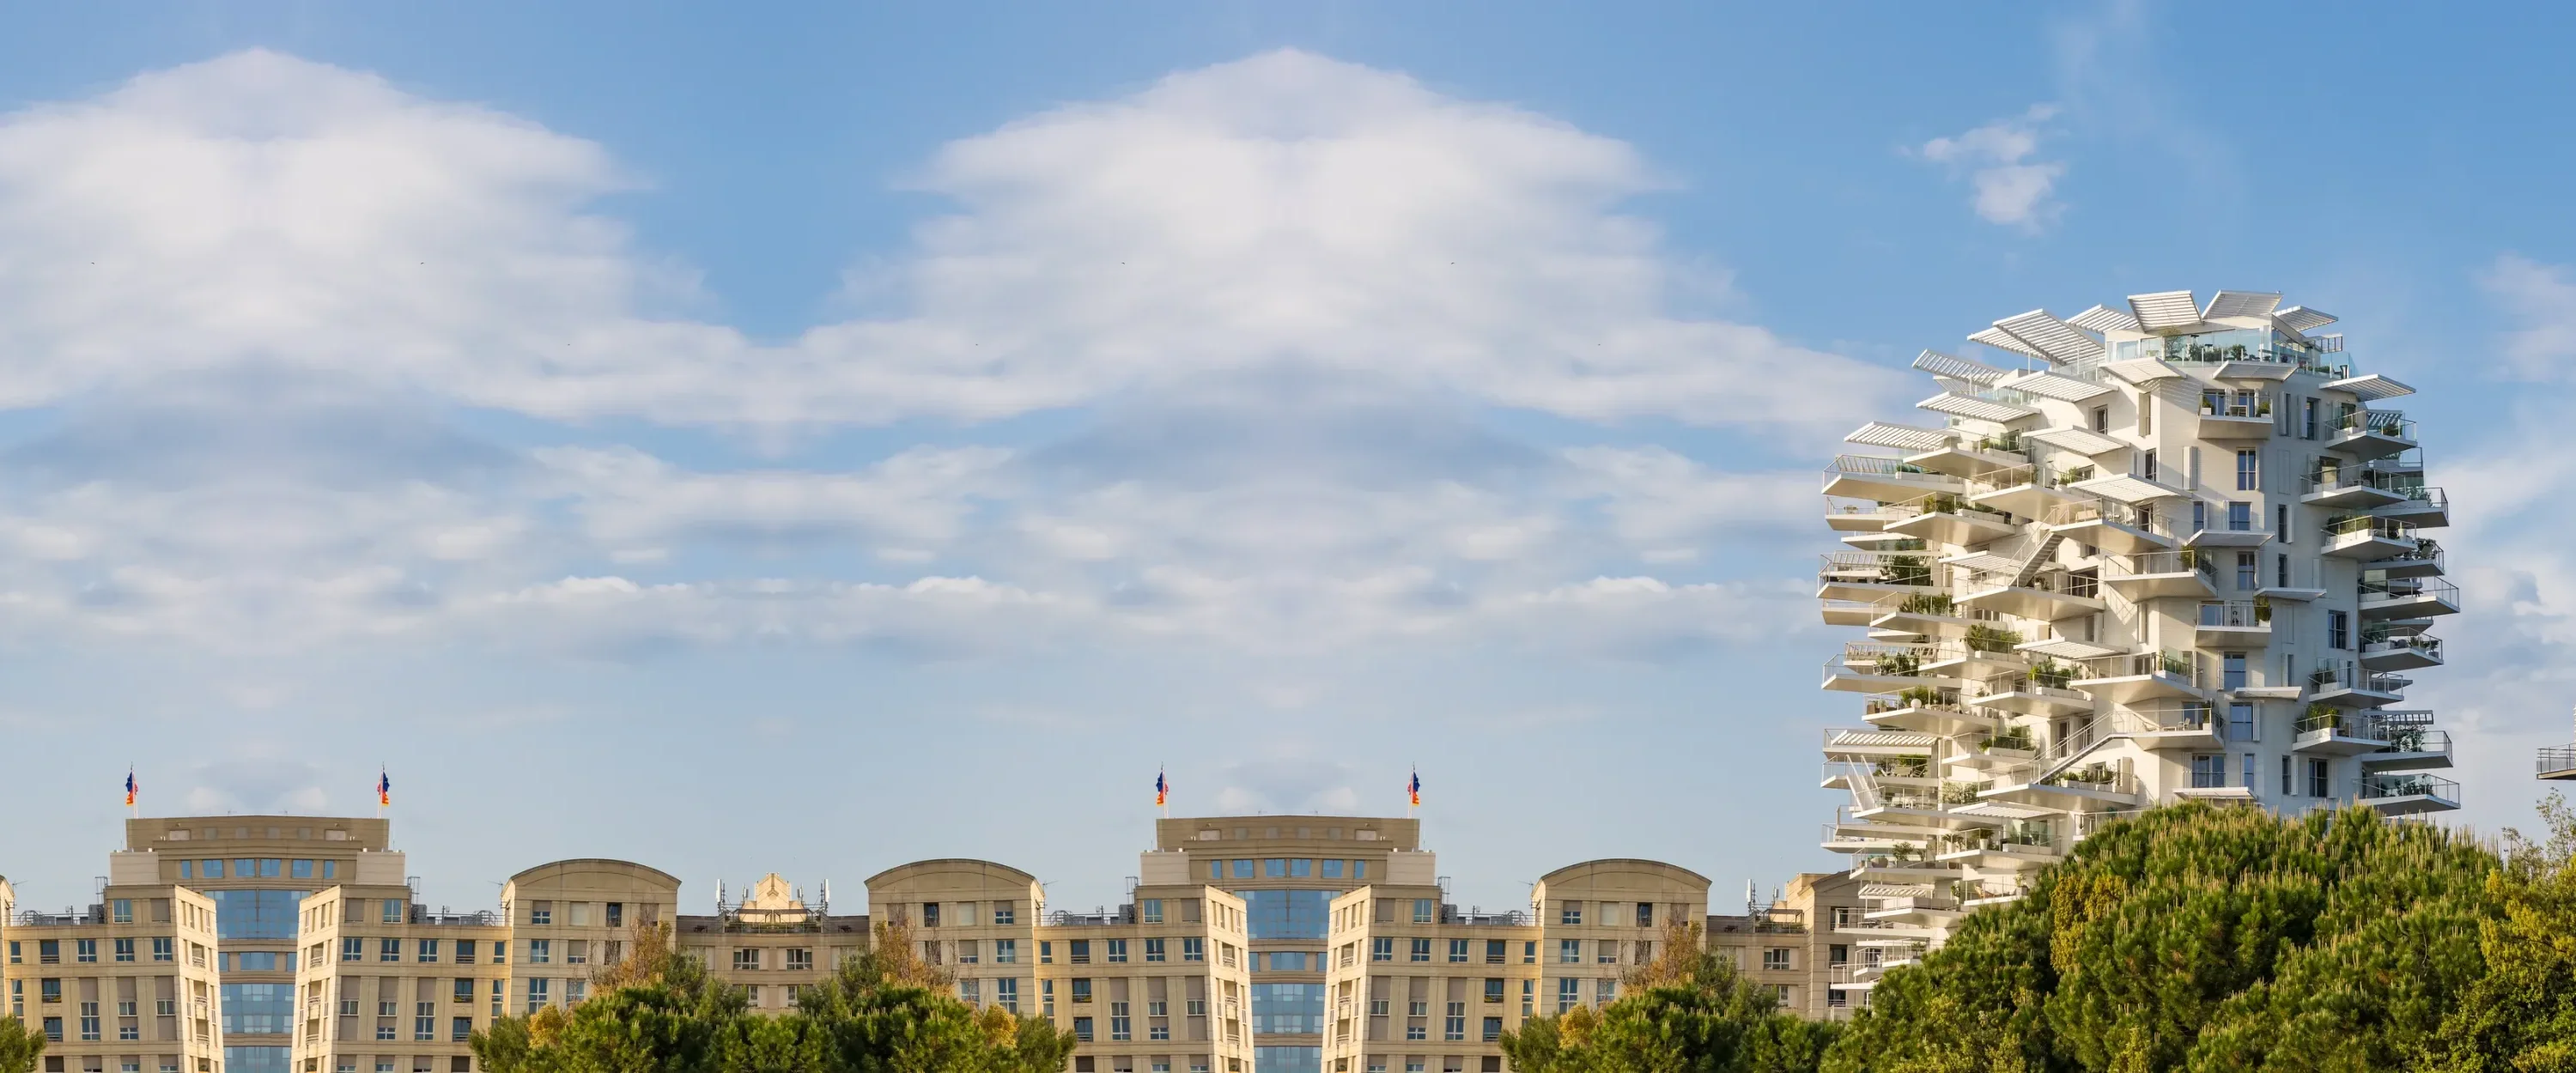
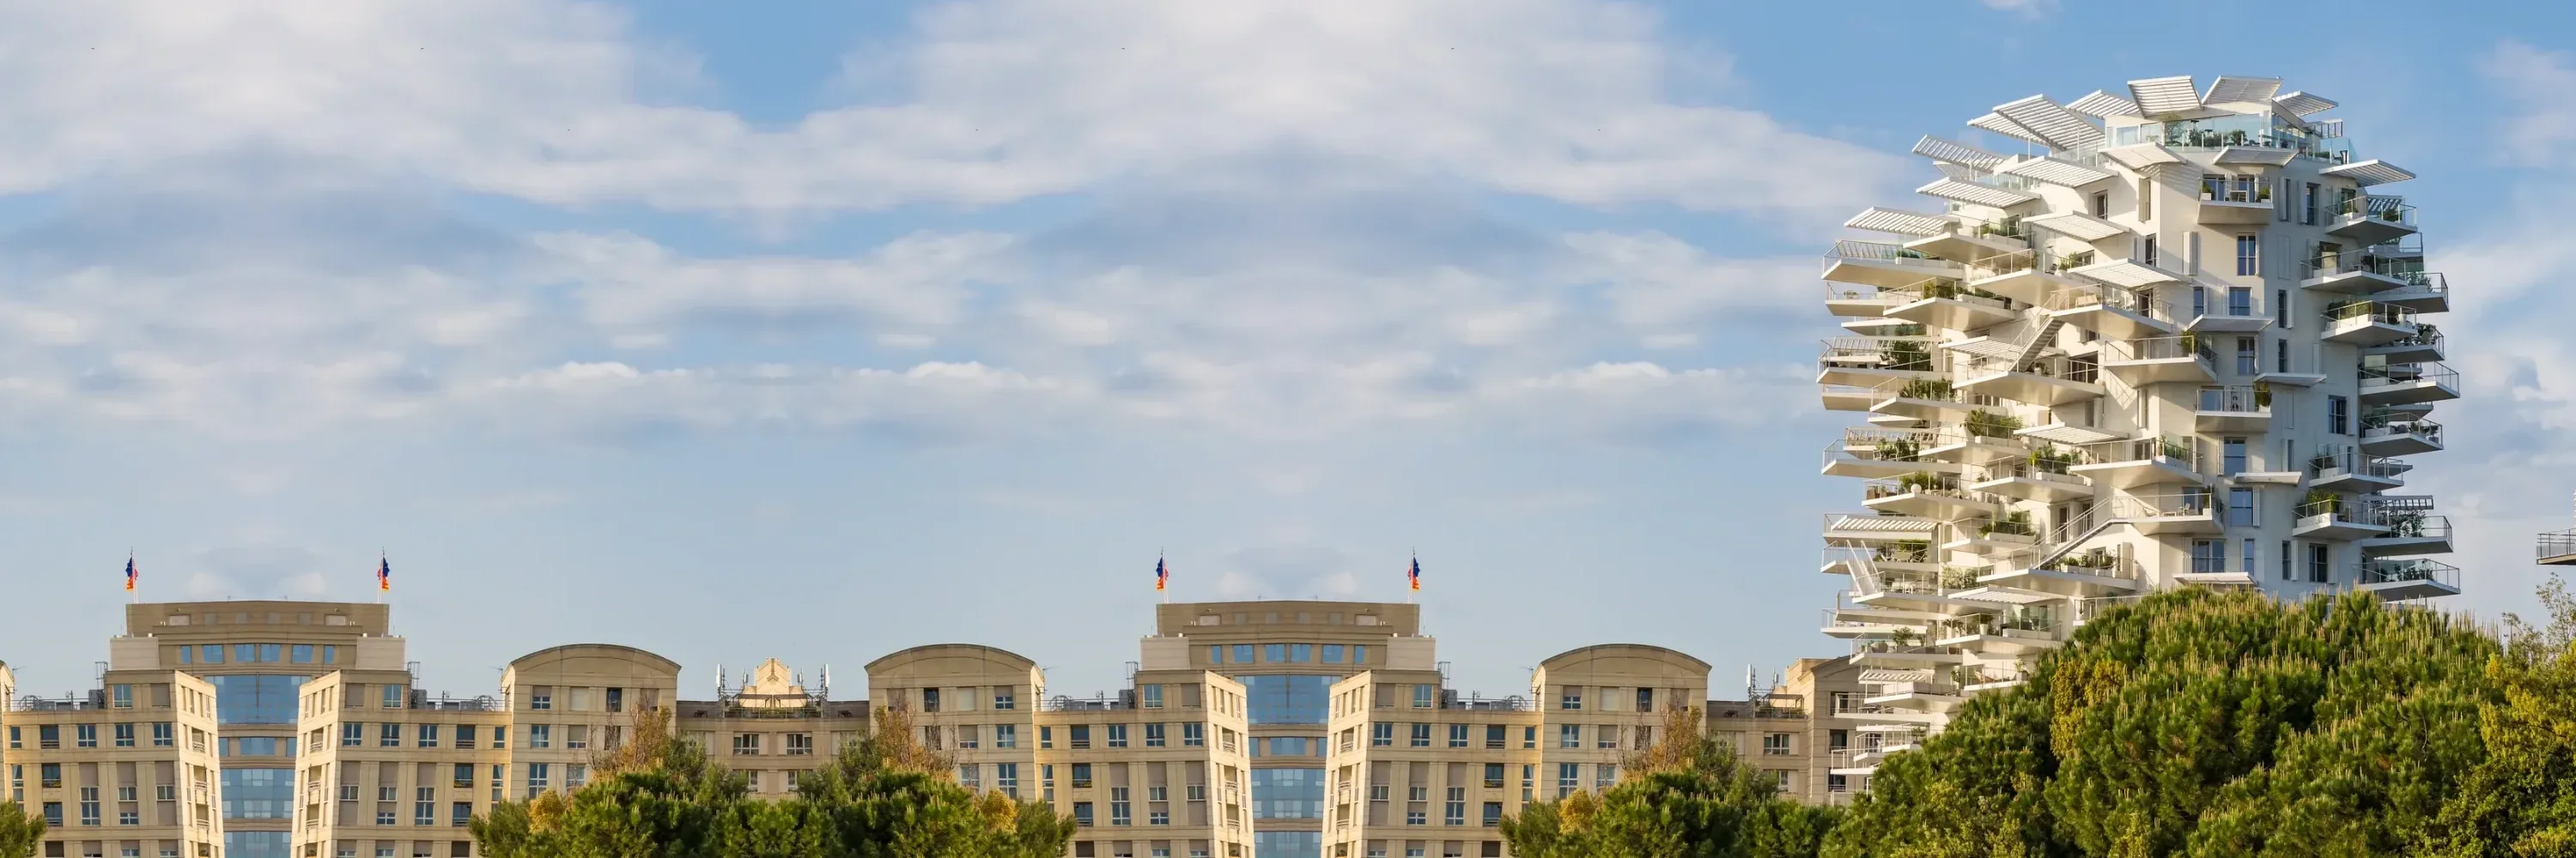
Accueil : contenu du bloc centré, photo moins haute (un peu de ciel au-dessus de l'Arbre Blanc)
Claude-Session: https://claude.ai/code/session_01EKVDPdaB2g9b96r4iNnge6

diff --git a/client/src/pages/home.css b/client/src/pages/home.css
@@ -48,7 +48,7 @@
 
 /* ── Ouverture : photo dans un grand module arrondi, bloc bleu posé en bas à gauche ── */
 .hero { position: relative; padding: 0 var(--pad); }
-.hero-photo { height: min(calc(100svh - 80px), 860px); min-height: 560px; border-radius: var(--round); overflow: hidden; background: var(--stone); }
+.hero-photo { height: min(calc((100svh - 80px) * 0.8), 700px); min-height: 560px; border-radius: var(--round); overflow: hidden; background: var(--stone); }
 .hero-photo { position: relative; }
 /* Crédit de la photo : discret, en bas à droite. */
 .hero-credit { position: absolute; right: 14px; bottom: 10px; font-size: 11px; line-height: 1; color: var(--paper); text-shadow: 0 0 3px rgba(0, 0, 0, 0.55); letter-spacing: 0.01em; pointer-events: none; }
@@ -62,6 +62,11 @@
 .hero-block h1 em { color: var(--accent-soft); }
 .hero-lead { font-size: var(--step-lead); line-height: 1.4; max-width: 30ch; color: var(--paper); }
 .hero-actions { display: flex; align-items: center; flex-wrap: wrap; gap: 12px 28px; }
+/* Ordinateur : le contenu du bloc est centré. */
+@media (min-width: 1024px) {
+  .hero-block { align-items: center; text-align: center; }
+  .hero-actions { justify-content: center; }
+}
 .hero-link { color: var(--paper) !important; font-weight: 600; text-underline-offset: 6px; padding: 12px 0; }
 .hero-link:hover { text-decoration-thickness: 2px; }
 
@@ -225,7 +230,7 @@
 
 /* ── Tablette : le bloc passe sous la photo, l'Arbre Blanc reste entier ── */
 @media (min-width: 768px) and (max-width: 1023px) {
-  .hero-photo { height: 58svh; min-height: 420px; }
+  .hero-photo { height: 48svh; min-height: 360px; }
   .hero-block { position: relative; left: auto; bottom: auto; width: auto; margin: -48px 24px 0; }
   .hero-credit { bottom: 58px; }
 }

diff --git a/client/src/pages/Home.tsx b/client/src/pages/Home.tsx
@@ -264,7 +264,7 @@ export default function Home() {
         <section className="hero" data-section>
           <div className="hero-photo">
             {/* Photo élargie à gauche (son propre ciel en miroir, caché par le bloc) : l’Arbre Blanc entier, à droite du bloc. */}
-            <img src="/accueil/arbre-blanc-large.webp" alt="L’Arbre Blanc, immeuble aux balcons en porte-à-faux, au-dessus des pins, à Montpellier" width={3000} height={1250} fetchPriority="high" />
+            <img src="/accueil/arbre-blanc-large.webp" alt="L’Arbre Blanc, immeuble aux balcons en porte-à-faux, au-dessus des pins, à Montpellier" width={3000} height={1000} fetchPriority="high" />
             <small className="hero-credit">© Ludwig Deguffroy/Getty Images</small>
           </div>
           <div className="hero-block fold fold--lg fold--ear">
